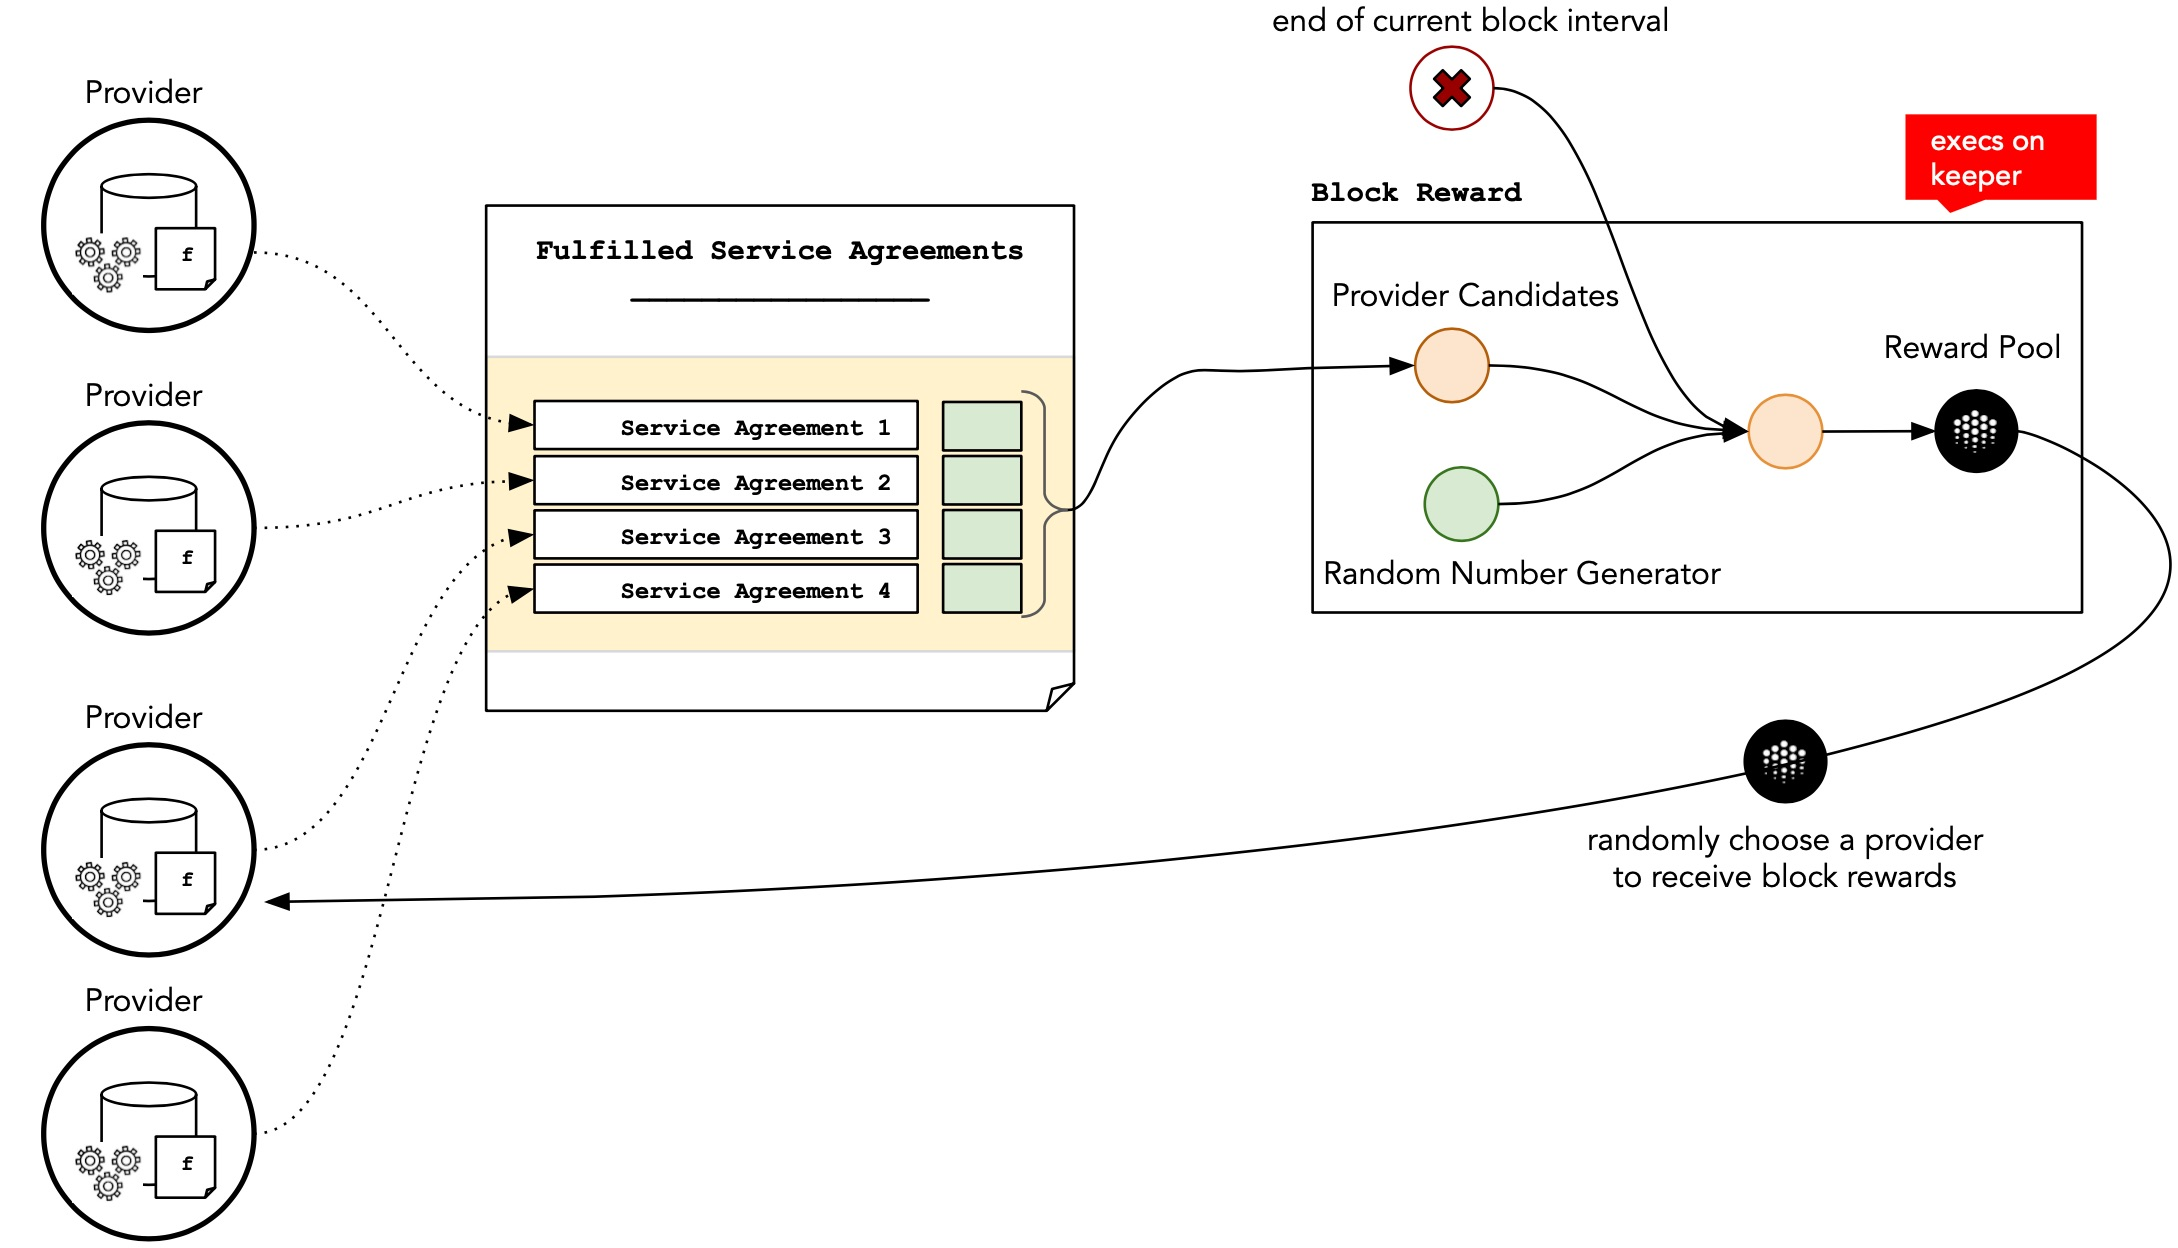
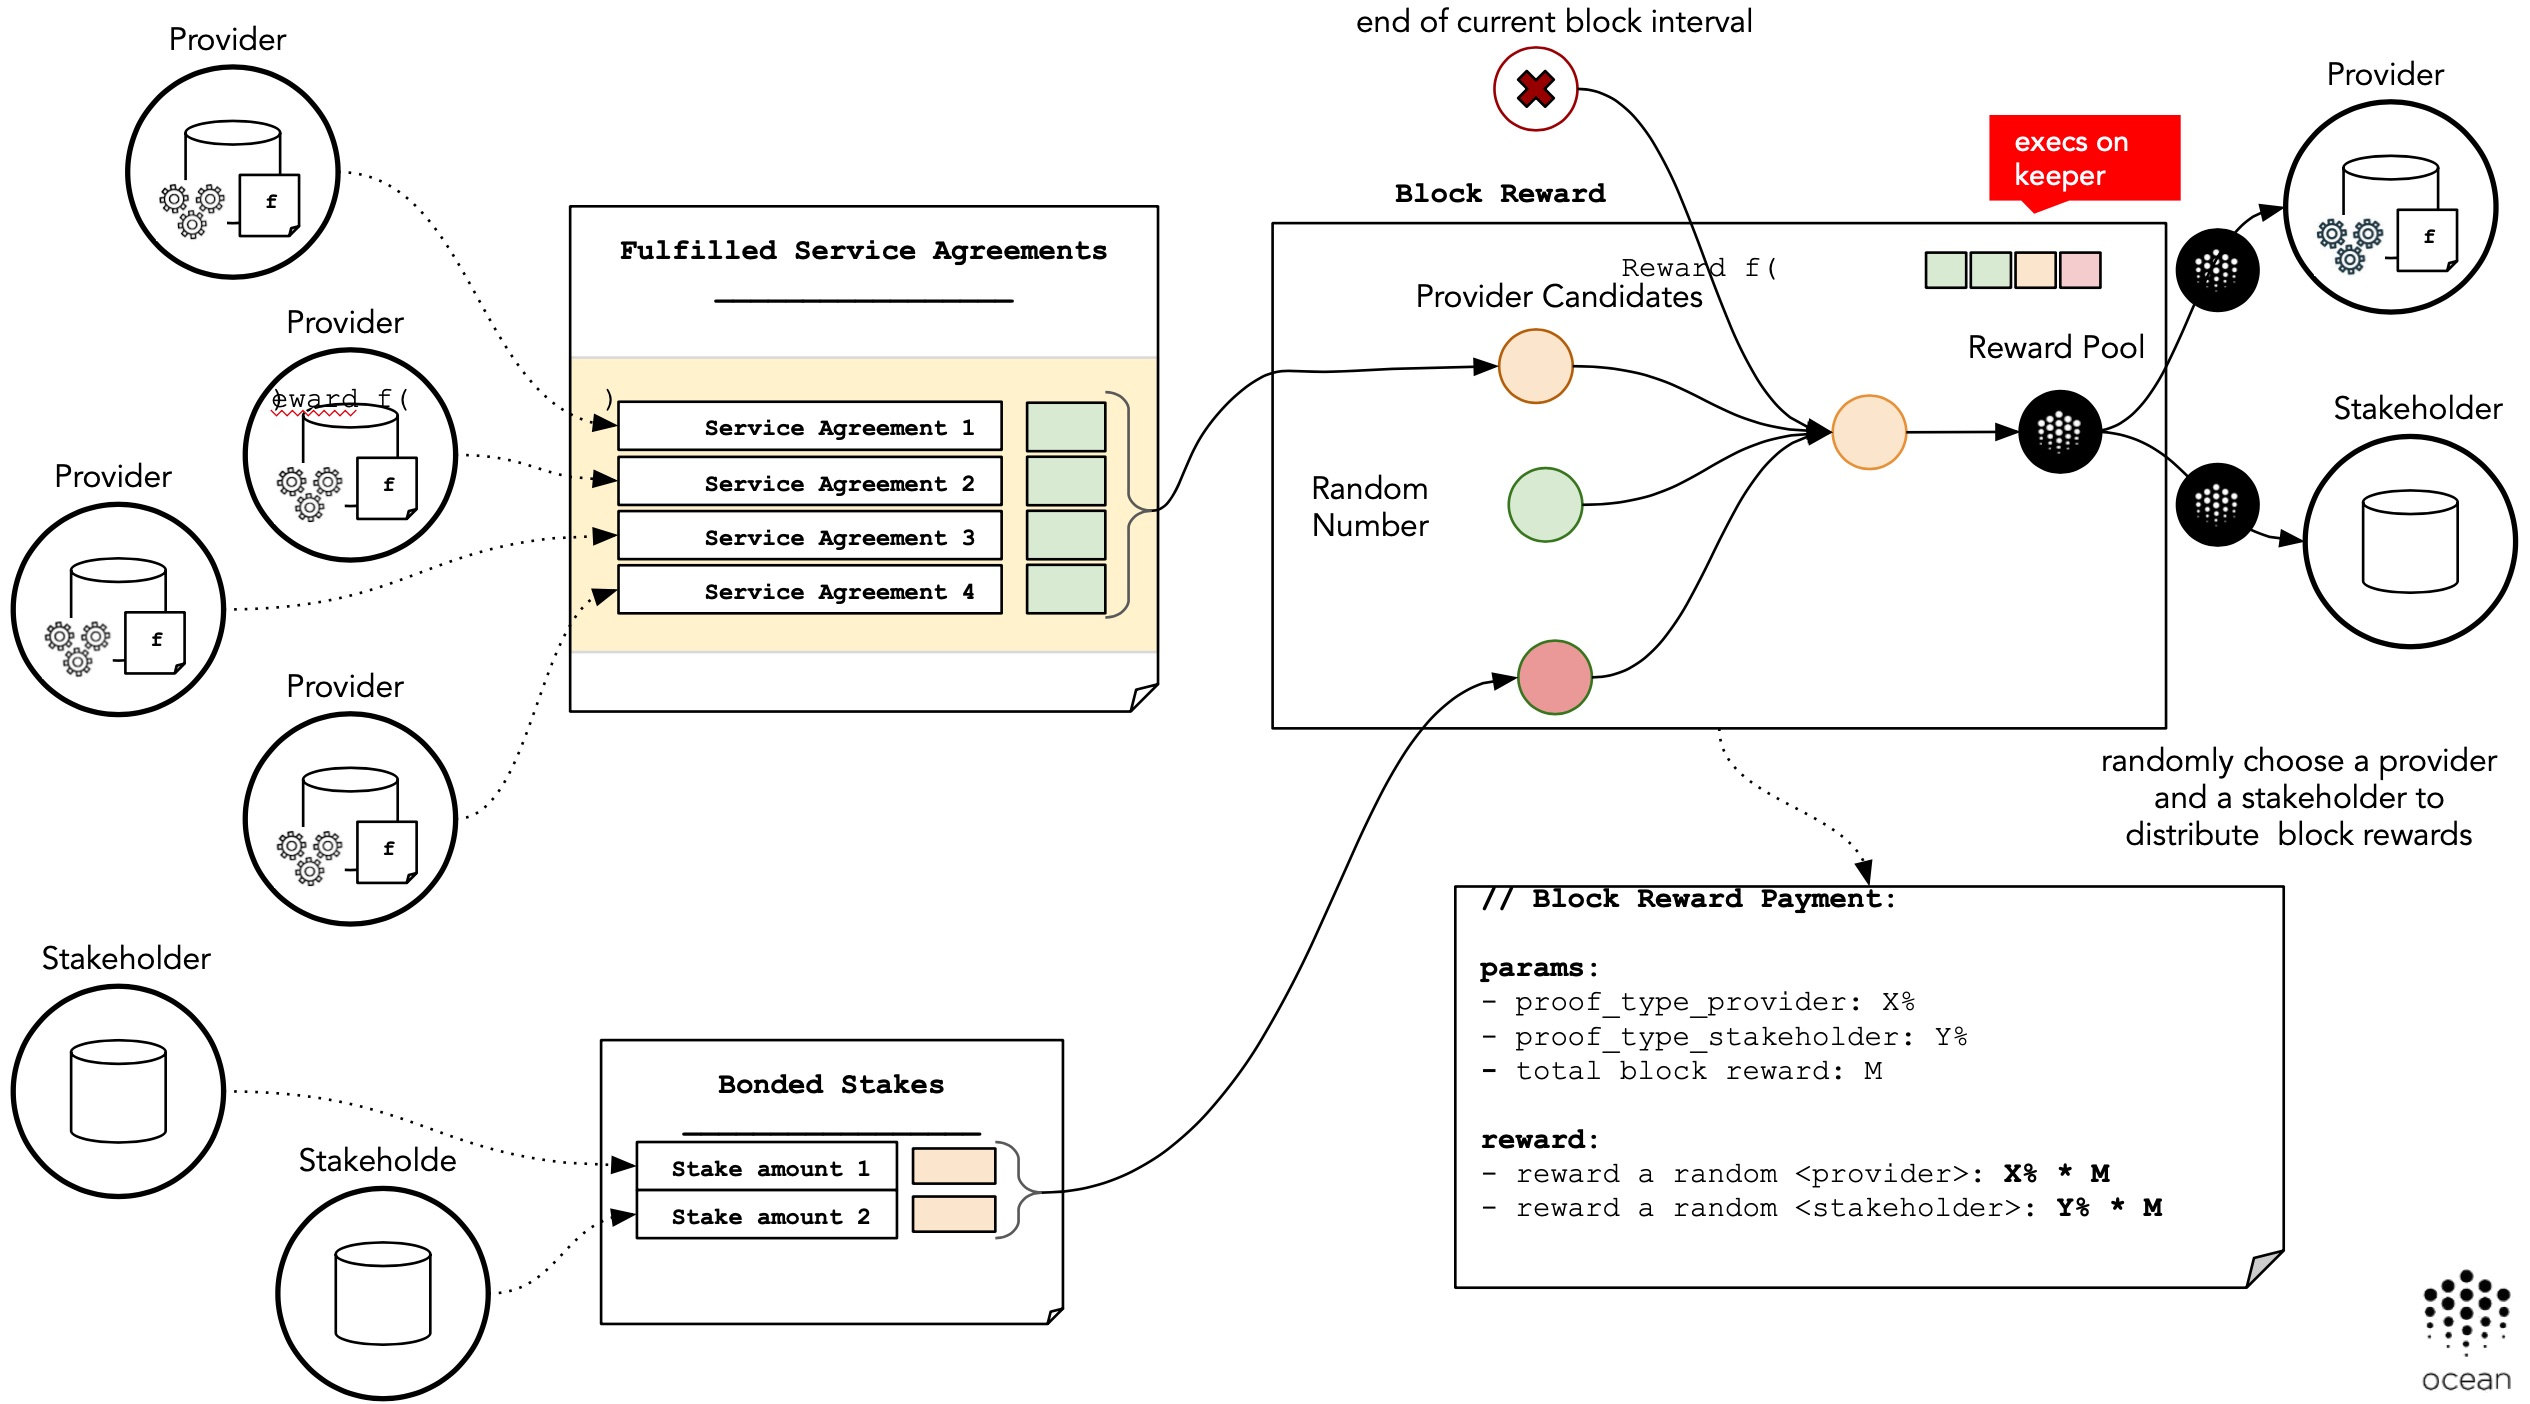
update block reward diagram; add detailed issues and task for each module

diff --git a/doc/refactoring_design.md b/doc/refactoring_design.md
@@ -69,6 +69,8 @@ In this section, each module is designed with details (some materials comes from
 
 ### 2.1 Ocean Token 
 
+#### 2.1.1 Definition
+
 Ocean Token is the native and fungible tokens in Ocean network, which complies with the ERC20 Standard. 
 
 Its total supply of Ocean Token is 1.4 billion.
@@ -76,6 +78,8 @@ Its total supply of Ocean Token is 1.4 billion.
 45% of supply is reserved for block rewards, which will be minted according to schedule below:
 <img src="img/refactoring/schedule.jpg" width="500" />
 
+
+#### 2.1.2 Sample Code
 
 The key functions in Ocean token is similar to below:
 
@@ -94,8 +98,16 @@ function transfer(address _to, uint256 _value) public returns (bool);
 function mintTokens() public returns (bool success);
 ```
 
+#### 2.1.3 Task & Issue
+
+- [ ] mint new tokens as block rewards according to the releasing schedule;
+- [ ] transfer minted new tokens to block reward pool.
+
+----
 
 ### 2.2 Block Reward
+
+#### 2.2.1 Definition
 
 Block rewards are newly minted Ocean tokens which reward providers of data commons. 
 
@@ -105,18 +117,19 @@ Block rewards are newly minted Ocean tokens which reward providers of data commo
 
 * Block reward Ocean tokens will be minted and deposited into a reward pool;
 * In the same block interval, Ocean network randomly select a provider to serve the service agreement of data commons. Therefore, all providers have the equal probability to receive the block rewards.
-* When the service agreement is fulfilled and verified, provider receive a `lottery ticket` to win the block rewards;
-* In the end of current block interval, Ocean network randomly choose a winner from the providers who hold `lottery ticket`.
-* This chosen provider receives all tokens in the reward pool;
+* When the service agreement is fulfilled and verified, provider receive a `lottery ticket` to win the partial block rewards;
+* Stakeholders of data commons in the same block interval receive a `lottery ticket` to win the partial block rewards.
+* In the end of current block interval, Ocean network randomly choose a winner from the providers and a winner from the stakeholders who hold `lottery tickets`.
+* This chosen provider and stakeholder share all tokens in the reward pool (the reward percentage is pre-defined, such as provider takes 80% block rewards, while stakeholder takes 20%);
 * The procedure will repeat for each block interval; if there is no winner, Ocean tokens in the reward pool will accumulate over time until a winner claims the reward.
 
 <img src="img/refactoring/rewardLogic.jpg" width="1000" />
 
-The process within one block interval can be illustrated as below:
+The process for a service prodiver to receive block rewards in one block interval is below:
 
 <img src="img/refactoring/distributeBR.jpg" width="800" />
 
-
+#### 2.2.2 Sample Code
 
 The sample smart contract looks like this:
 
@@ -142,8 +155,23 @@ function sendBlockReward() public returns (bool success){
 };
 ```
 
+#### 2.2.3 Task & Issue
+
+- [ ] retrieve proofs of fulfilled service agreements for data commons;
+- [ ] add providers of these proofs to the winner candidate list;
+- [ ] retrieve list of stakeholders for data commons;
+- [ ] random number generator to have uniform-distributed random numbers;
+- [ ] detect the end of current block interval;
+- [ ] trigger the minting of new block rewards in Token contract;
+- [ ] choose a random provider and a random stakeholder;
+- [ ] split the current reward pool into token rewards for chosen provider and stakeholder.
+
+----
 
 ### 2.3 Service Agreement
+
+#### 2.3.1 Definition
+
 Please see [SLA.md](https://github.com/oceanprotocol/dev-ocean/blob/feature/SLA-specs/doc/sla.md) and [smart contract prototype](https://github.com/oceanprotocol/keeper-contracts/blob/develop/contracts/SLA/ServiceAgreement.sol) for details. 
 
 The structre of a Serivce Agreement looks like below:
@@ -168,6 +196,7 @@ The key point is to split up the conditions from reward payment as:
 
 4. **Add current provider of data commons into block reward candidates if service agreement is fulfilled and verified.**
 
+#### 2.3.2 Sample Code
 
 The sample smart contract looks like below:
 
@@ -215,10 +244,26 @@ function fulfillCondition(bytes32 serviceId, bytes4 fingerprint, bytes32 valueHa
 function calculatePayment(bytes32 serviceId) public returns(bool);
 ```
 
+#### 2.3.3 Task & Issue
+
+- [ ] add time-lock and time-out to each service condition and check its validity when needed;
+- [ ] add support of UNKNOWN status;
+- [ ] when create new SA template, the template must go through TCR to get whitelisted;
+- [ ] add new SA template into Tribe and Curation registry;
+- [ ] add permission checking with Tribe registry;
+- [ ] when SA is fulfilled, check whether it is needed to distribute block reward. If not, add provider of data commons to the winner candidate list.
+- [ ] In the end of block interval, trigger the distribution of block rewards.
+
+----
 
 ### 2.4 Payment
 
+#### 2.4.1 Definition
+
 Payment module handls all payment processing: lock payment, release payment and refund payment. It provides query functions for external function to check the payment status of a specific service agreement.
+
+
+#### 2.4.2 Sample Code
 
 ```Solidity
 // lock consumer payment
@@ -231,7 +276,17 @@ function releasePayment(bytes32 serviceId, bytes32 assetId, uint256 price) publi
 function refundPayment(bytes32 serviceId, bytes32 assetId, uint256 price) public returns (bool);
 ```
 
+#### 2.4.3 Task & Issue
+
+- [ ] add function to distribute block rewards with pre-defined percentage parameters;
+- [ ] add function to verify the status of payments.
+
+
+----
+
 ### 2.5 Access Control
+
+#### 2.5.1 Definition
 
 This module grant consumer with the access to assets. Consumer has two options to receive the access token:
 
@@ -242,13 +297,23 @@ This module grant consumer with the access to assets. Consumer has two options t
 
 * **On-Chain authorization**: provider delivers the encrypted access token through on-chain smart contract using service agreement. Details in [OEP-11 On-Chain Access Control using Service Agreements](https://github.com/oceanprotocol/OEPs/tree/feature/OEP-11_acl_sa/11)
 
+#### 2.5.2 Sample Code
+
 ```Solidity
 // grant access to the consumer in given service agreement
 function grantAccess(bytes32 serviceId, bytes32 assetId) public returns (bool);
 ```
 
+#### 2.5.3 Task & Issue
+
+- [ ] add support of data commons. 
+- [ ] grant access according to Tribe registry.
+
+----
 
 ### 2.6 Tribe
+
+#### 2.6.1 Definition
 
 Each service agreement template has its corresponding `Tribe` including:
 
@@ -274,6 +339,7 @@ Each service agreement template has its corresponding `Tribe` including:
 * *data commons*: Ocean network randomly choose a provider to fulfill the service agreement request of data commons;
 * *priced data*: Consumer chooses the provider to fulfill his service agreement request.
 
+#### 2.6.2 Sample Code
 
 ```Solidity
 struct Tribe{
@@ -300,9 +366,19 @@ function addProvider(bytes32 template_Id, address provider) public returns (bool
 function addConsumer(bytes32 template_Id, address consumer) public returns (bool);
 ```
 
+#### 2.6.3 Task & Issue
 
+- [ ] add data structures of permission registries for membership, provider and consumer;
+- [ ] user needs to go through TCR to be added into provider registry;
+- [ ] user needs to make payment or pre-vetted to be added into consumer registry;
+- [ ] members in the tribe have access to data commons; there is no need to have consumer registry;
+- [ ] add functions to remove user from provider registry or consumer registry;
+
+----
 
 ### 2.7 Curation
+
+#### 2.7.1 Definition
 
 Curation is required in Ocean to generate a ranked list of SA sorted from high quality to low. In the decentralized settings, curation could be done with staking mechanism & bonding curves.
 
@@ -328,6 +404,9 @@ The bonding curves determines the exchange ratio with an analytical formula, whi
 
 **(4) Unstaking and burn bonded token**:
 <img src="img/refactoring/BCunstaking.jpg" width="1100" />
+
+
+#### 2.7.2 Sample Code
 
 The example smart contract functions for curation are below:
 
@@ -366,8 +445,19 @@ function mintTokens() public returns (bool success);
 function burnTokens() public returns (bool success);
 ```
 
+#### 2.7.3 Task & Issue
+
+- [ ] add bonded token contract to support mint bonded token and burn bonded token;
+- [ ] deploy a new bonded token contract for each SA template so users can stake;
+- [ ] add curation contract to manage the curation markets for SA templates;
+- [ ] users can stake reserved token for bonded token and sell bonded tokens back with curation contract;
+- [ ] curation contract use pre-defined bonding curves contract to determine the exchange rate.
+
+---
 
 ### 2.8 Dispute Resolution
+
+#### 2.8.1 Definition
 
 Consumer can raise dispute before *TIME-OUT* and *PAYMENT-RELEASED* in the service agreement. 
 
@@ -378,6 +468,7 @@ To resolve the dispute, there are two approaches:
 * **Voting based resolution**: it enables expert verification (or arbitration) with permissioned voting on the disputes. 
 * **TCR based resolution**: it enables community opinion since all community members can vote on the disputes, which will be resolved based on TCR results.
 
+#### 2.8.2 Sample Code
 
 ```Solidity
 struct Dispute {
@@ -406,8 +497,20 @@ function addDispute(bytes32 serviceId) public returns (bool){
 function resolveDispute(bytes32 serviceId) public returns (bool);
 ```
 
+#### 2.8.3 Task & Issue
+
+- [ ] add dispute resolution contract to manage all disputes;
+- [ ] enable consumers to raise dispute for a specific SA;
+- [ ] disable processing of payment if dispute exists;
+- [ ] resolve dispute with voting or TCR;
+- [ ] update the SA status according to dispute resolution result.
+
+---
 
 ### 2.9 TCR (Token Curated Registry)
+
+#### 2.9.1 Definition
+
 **1. Concept**
 
 TCR is a common module that can be used by many different components. Our TCR is derived from Mike Goldin's prototype of TCR. 
@@ -426,6 +529,9 @@ Similar to SA event triggering design, the various actions are triggered by even
 * When received the message, the controller contract can trigger the action such as add new SA template into the registry. 
 
 <img src="img/refactoring/tcrAction.jpg" width="500" />
+
+
+#### 2.9.2 Sample Code
 
 The sample smart contract is below:
 
@@ -454,14 +560,23 @@ function updateRegistry(bytes32 listingHash) public {
 }
 ```
 
+#### 2.9.3 Task & Issue
+
+- [ ] add functions to emit event message when a challenge is resolved by voting;
+- [ ] implement an external event message listener which keeps listening to events;
+- [ ] the external listner triggers event to update the corresponding registry.
+
+---
 
 ### 2.10 Voting 
+
+#### 2.10.1 Definition
 
 Voting module is based on PLCRVoting implementation. 
 
 One change to be added is to enable **permissioned voting**, where only voters on the whitelist/registry can participate in the voting.
 
-
+#### 2.10.2 Sample Code
 
 
 ```Solidity
@@ -488,6 +603,12 @@ function commitVote(bytes32 id) public returns (bool){
 	
 };
 ```
+
+#### 2.10.3 Task & Issue
+
+- [ ] add voter list for each voting;
+- [ ] if enabled, voter must be on the list in order to participate the voting;
+- [ ] the commitVote function adds permission check for voters if needed.
 
 ## 3. Integration of Ocean Modules
 
